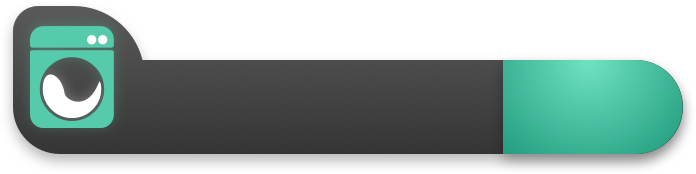
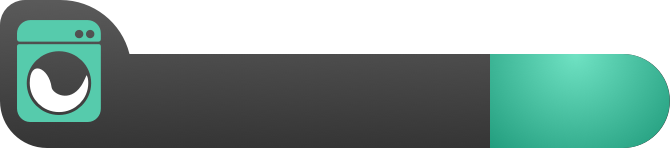
bug修改

Changed region(s): [[0.0, 0.0, 1.0, 1.0]]

diff --git a/src/views/categories/index.vue b/src/views/categories/index.vue
@@ -307,11 +307,12 @@ export default {
       transform: translateX(-50%);
       box-shadow: 0 7px 13px 0 rgba(0,0,0,0.28);
       position: relative;
-      background: url('../../assets/bg03.png') no-repeat top /cover;
+      background: url('../../assets/bg03.png') no-repeat bottom;
+      background-size: 100%;
 
       .footer-left{
         width: 131.6px;
-        height: 148px;
+        height: 166px;
       }
       .footer-center{
         box-sizing: border-box;
